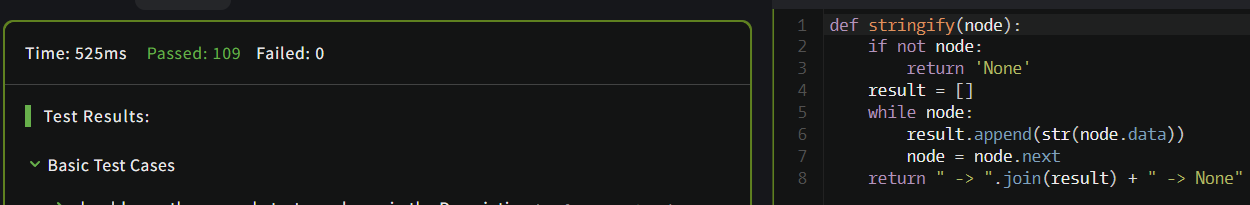
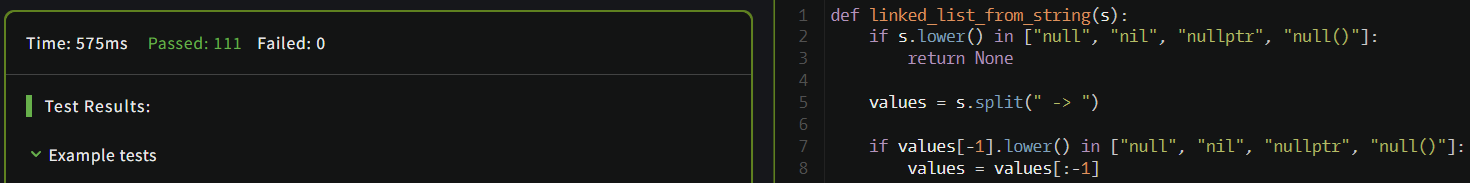
Added the second task.

diff --git a/linked_list_from_string.py b/linked_list_from_string.py
@@ -1,0 +1,33 @@
+class Node:
+    def __init__(self, data, next=None):
+        self.data = data
+        self.next = next
+
+def linked_list_from_string(s):
+    if s.lower() in ["null", "nil", "nullptr", "null()"]:
+        return None
+
+    values = s.split(" -> ")
+
+    if values[-1].lower() in ["null", "nil", "nullptr", "null()"]:
+        values = values[:-1]
+
+    head = None
+    active = None
+
+    for value in values:
+        try:
+            int_value = int(value)
+        except ValueError:
+            continue
+
+        new_node = Node(int_value)
+
+        if head is None:
+            head = new_node
+            active = head
+        else:
+            active.next = new_node
+            active = active.next
+
+    return head
